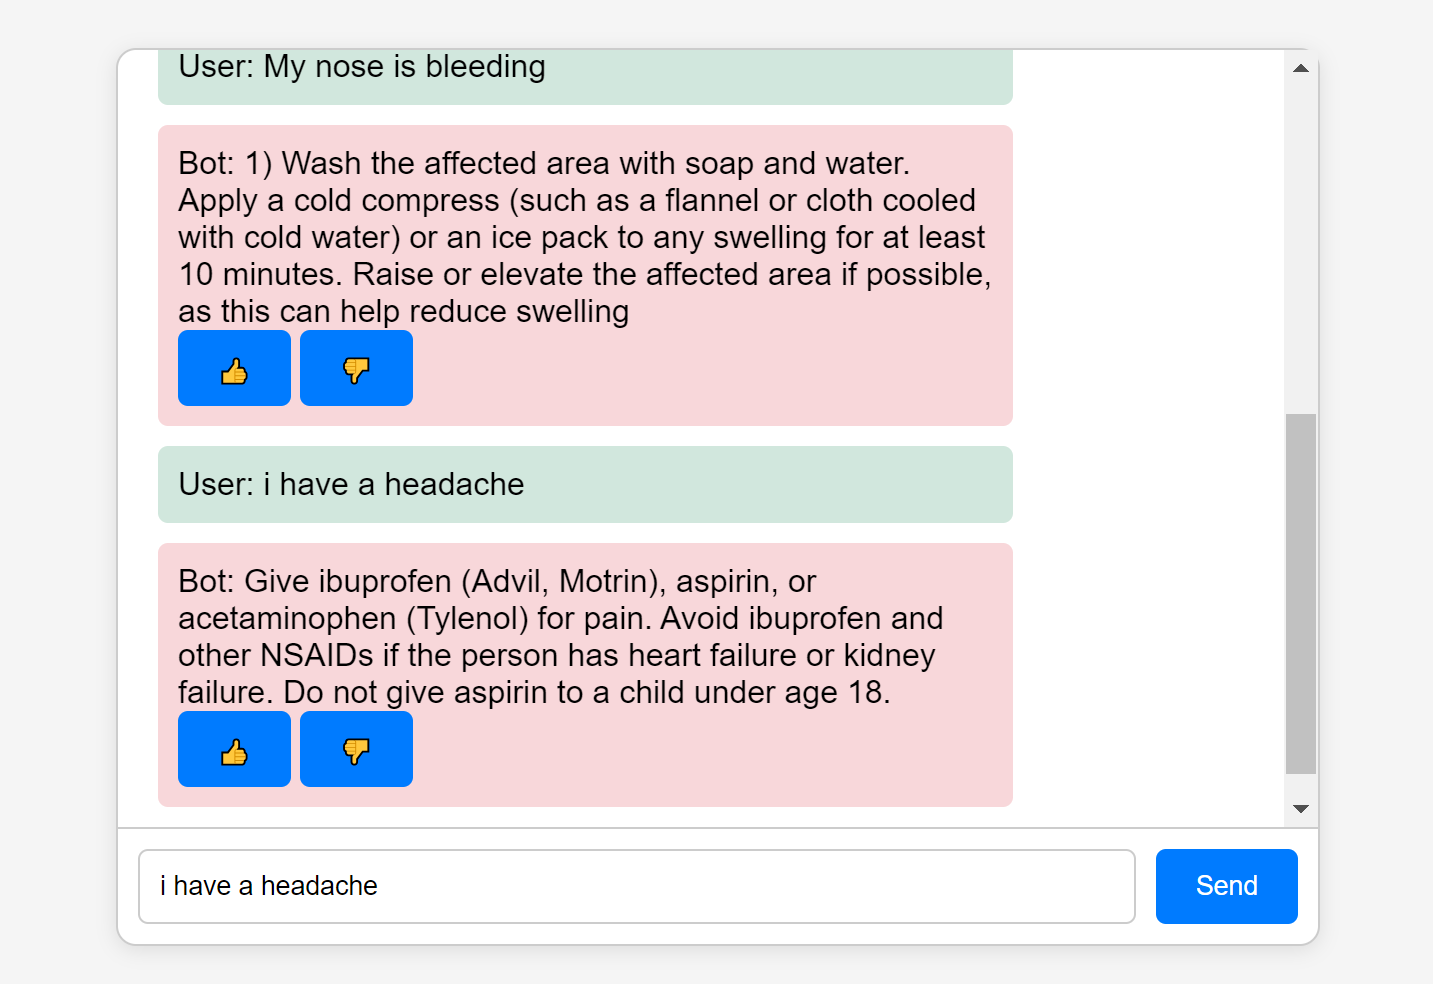
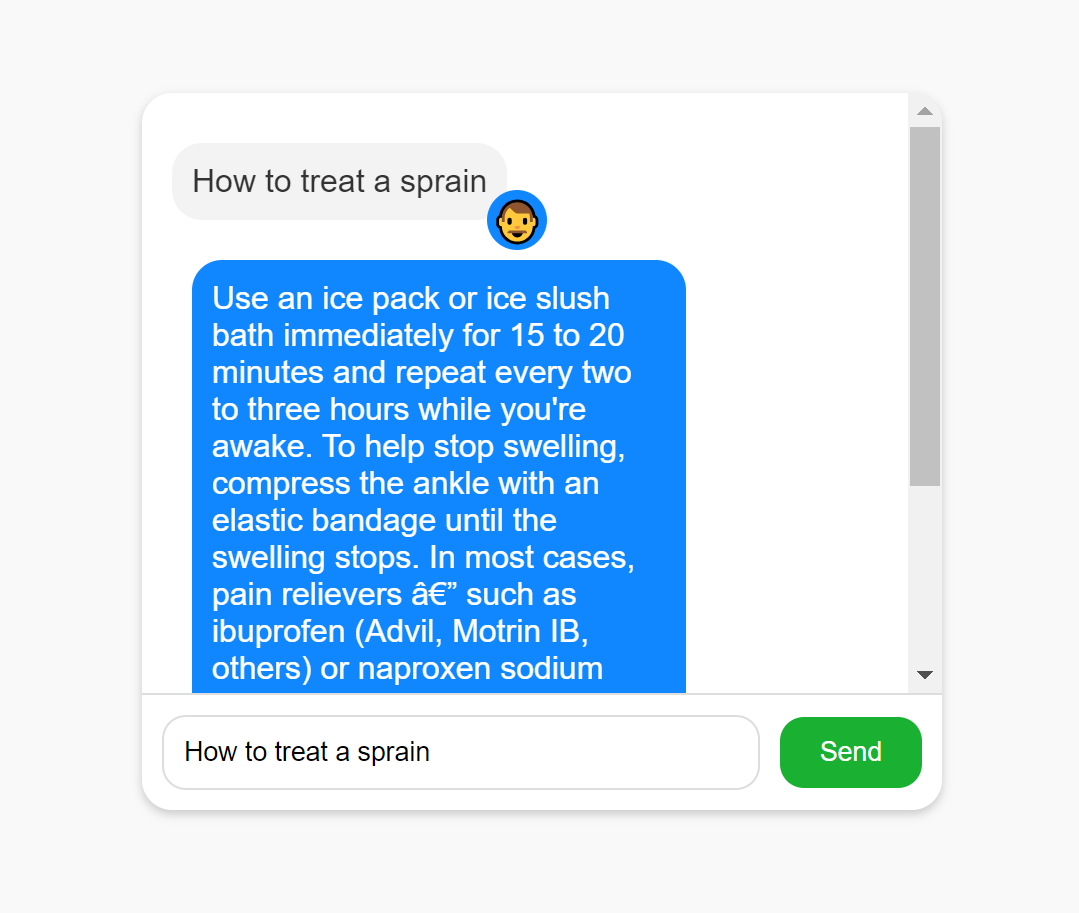
Final 2

diff --git a/Frontend/styles.css b/Frontend/styles.css
@@ -1,6 +1,13 @@
+/* Reset default margin and padding */
+* {
+    margin: 0;
+    padding: 0;
+    box-sizing: border-box;
+}
+
 body {
-    font-family: Arial, sans-serif;
-    background-color: #f5f5f5;
+    font-family: "Poppins", sans-serif;
+    background-color: #f9f9f9;
     display: flex;
     justify-content: center;
     align-items: center;
@@ -9,63 +16,103 @@ body {
 }
 
 #chat-container {
-    width: 80%;
-    max-width: 600px;
-    height: 80%;
+    width: 100%;
+    max-width: 400px;
+    margin: 20px;
     background-color: #fff;
-    border: 1px solid #ccc;
-    border-radius: 10px;
-    display: flex;
-    flex-direction: column;
-    box-shadow: 0 2px 10px rgba(0, 0, 0, 0.1);
+    border-radius: 15px;
+    box-shadow: 0 2px 5px rgba(0, 0, 0, 0.2);
+    overflow: hidden;
 }
 
 #chat-box {
-    flex-grow: 1;
+    max-height: 300px;
     overflow-y: auto;
-    padding: 20px;
-    border-bottom: 1px solid #ccc;
-}
-
-#chat-box p {
-    margin: 10px 0;
-    padding: 10px;
-    border-radius: 5px;
-    max-width: 75%;
-}
-
-#chat-box .user {
-    background-color: #d1e7dd;
-    align-self: flex-end;
-}
-
-#chat-box .bot {
-    background-color: #f8d7da;
-    align-self: flex-start;
+    padding: 15px;
 }
 
 #input-container {
     display: flex;
+    align-items: center;
     padding: 10px;
+    border-top: 1px solid #ddd;
 }
 
 #user-input {
-    flex-grow: 1;
+    flex: 1;
     padding: 10px;
-    border: 1px solid #ccc;
-    border-radius: 5px;
-    margin-right: 10px;
+    border: 1px solid #ddd;
+    border-radius: 12px;
+    outline: none;
 }
 
 button {
     padding: 10px 20px;
     border: none;
-    background-color: #007bff;
+    background-color: #1ab133;
     color: #fff;
-    border-radius: 5px;
+    border-radius: 12px;
+    margin-left: 10px;
     cursor: pointer;
+    transition: background-color 0.3s ease;
 }
 
 button:hover {
-    background-color: #0056b3;
+    background-color: #28c9bf;
+}
+
+.user-message {
+    background-color: #f3f3f3;
+    color: #333;
+    padding: 10px;
+    border-radius: 15px;
+    margin: 10px;
+    margin-left: auto; /* Push user message to the right */
+    display: inline-block;
+    max-width: 70%; /* Limit width to allow text wrapping */
+    position: relative;
+}
+
+.user-message::before {
+    content: "\1F468"; /* Man emoji */
+    position: absolute;
+    bottom: -15px;
+    right: -20px;
+    font-size: 20px;
+    background-color: #1087FF;
+    color: #fff;
+    border-radius: 50%;
+    width: 30px;
+    height: 30px;
+    display: flex;
+    justify-content: center;
+    align-items: center;
+}
+
+.bot-message {
+    background-color: #1087FF;
+    color: #fff;
+    padding: 10px;
+    border-radius: 15px;
+    margin: 10px;
+    margin-right: auto; /* Push bot message to the right */
+    display: inline-block;
+    max-width: 70%; /* Limit width to allow text wrapping */
+    position: relative;
+}
+
+.bot-message::before {
+    content: "\1F916"; /* Robot emoji */
+    position: absolute;
+    bottom: -15px;
+    left: -20px;
+    font-size: 20px;
+    background-color: #1087FF;
+    color: #fff;
+    border-radius: 50%;
+    width: 30px;
+    height: 30px;
+    display: flex;
+    justify-content: center;
+    align-items: center;
 }

diff --git a/Frontend/script.js b/Frontend/script.js
@@ -10,21 +10,35 @@ async function sendQuestion() {
     const data = await response.json();
     const chatBox = document.getElementById('chat-box');
     const responseId = `response-${Date.now()}`;
-    chatBox.innerHTML += `<p class="user">User: ${userInput}</p>`;
-    chatBox.innerHTML += `
-        <p class="bot">
-            Bot: ${data.answer}
-            <br>
-            <button onclick="sendFeedback('${responseId}', 'up')">👍</button>
-            <button onclick="sendFeedback('${responseId}', 'down')">👎</button>
-        </p>`;
-    chatBox.innerHTML += `<p id="${responseId}" style="display: none;">${data.answer}</p>`;
-    chatBox.scrollTop = chatBox.scrollHeight;  // Scroll to the bottom
+
+    const userMessage = document.createElement('div');
+    userMessage.classList.add('user-message');
+    userMessage.innerHTML = `
+        <p>${userInput}</p>
+    `;
+    chatBox.appendChild(userMessage);
+
+    const botMessage = document.createElement('div');
+    botMessage.classList.add('bot-message');
+    botMessage.innerHTML = `
+        <p>${data.answer}</p>
+        <button class="feedback-btn" onclick="sendFeedback('${responseId}', 'up')">👍</button>
+        <button class="feedback-btn" onclick="sendFeedback('${responseId}', 'down')">👎</button>
+    `;
+    chatBox.appendChild(botMessage);
+
+    const responseElement = document.createElement('p');
+    responseElement.id = responseId;
+    responseElement.style.display = 'none';
+    responseElement.textContent = data.answer;
+    chatBox.appendChild(responseElement);
+
+    chatBox.scrollTop = chatBox.scrollHeight;
 }
 
 async function sendFeedback(responseId, feedback) {
     const responseElement = document.getElementById(responseId);
-    const answer = responseElement.innerText;
+    const answer = responseElement.textContent;
 
     const response = await fetch('/feedback', {
         method: 'POST',
@@ -36,10 +50,14 @@ async function sendFeedback(responseId, feedback) {
     const data = await response.json();
     const chatBox = document.getElementById('chat-box');
 
+    const feedbackMessage = document.createElement('div');
+    feedbackMessage.classList.add('bot-message');
     if (data.status === "Feedback received") {
-        chatBox.innerHTML += `<p class="bot">Feedback received: ${feedback === 'up' ? '👍' : '👎'}</p>`;
+        feedbackMessage.textContent = `Feedback received: ${feedback === 'up' ? '👍' : '👎'}`;
     } else {
-        chatBox.innerHTML += `<p class="bot">Failed to submit feedback.</p>`;
+        feedbackMessage.textContent = `Failed to submit feedback.`;
     }
-    chatBox.scrollTop = chatBox.scrollHeight;  // Scroll to the bottom
+    chatBox.appendChild(feedbackMessage);
+
+    chatBox.scrollTop = chatBox.scrollHeight;
 }
